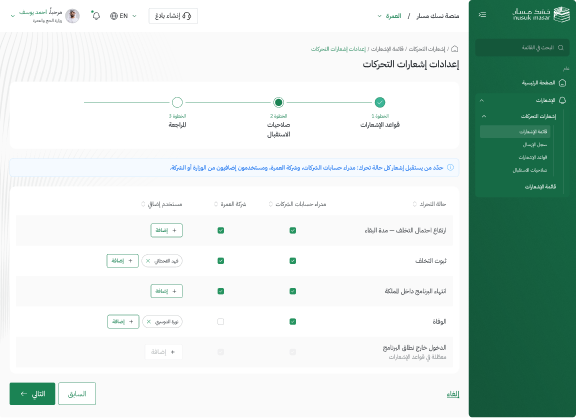
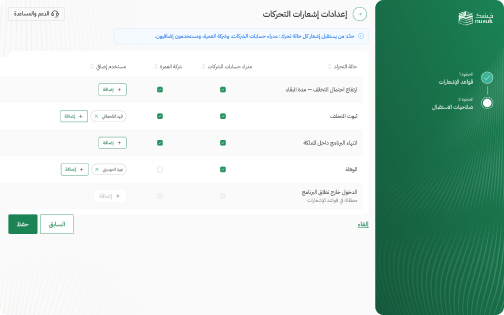
Settings flow on the stepper template: rules table, permissions, side window, save
Claude-Session: https://claude.ai/code/session_01CyctH4WFBszWbBNkvnfQuz

diff --git a/CLAUDE.md b/CLAUDE.md
@@ -138,15 +138,14 @@ All four libraries are published and reachable through `search_design_system`.
   Nav is resized to the frame height and kept under modal overlays. Slot children (2nd/3rd level items) are edited in place.
   The `star` and `drag-drop-vertical` icons on nav items are hidden on every frame (user decision).
 - **Settings stepper flow (user, 2026-10-15):** entry is the button «اعدادات اشعارات التحركات» (`4579:88592`) on the
-  user's new list frame `4579:87714`. Section `4582:9724` «إعدادات إشعارات التحركات — Stepper» (x4800 y2300). The user asked
-  to build the steps on that list page itself (new Nav Bar + top bar + breadcrumbs «… / قائمة الإشعارات / إعدادات إشعارات
-  التحركات», title «إعدادات إشعارات التحركات», title button hidden), with a horizontal DS `stepper` (set `64e10e27…`,
-  variant platform=tablet, language=arabic; 3 steps, labels «الخطوة n» + name; step_item step=done/current/next) in a
-  white card under the title. Frames left → right: 1 قواعد الإشعارات `4585:19772` (rules B cards, no per-card footers;
-  «التالي» + «إلغاء» link) · 2 صلاحيات الاستقبال `4585:20342` (permissions table; «التالي» + «السابق») · 2b add extra
-  user `4585:21817` — the user asked to use the side window from `4572:27643` (Side Panel `4572:27907`, 800 wide, from the
-  left over a 30% overlay) holding the two-list picker; footer «إضافة» + «إلغاء» · 3 المراجعة `4585:20944` (summary
-  cards; «حفظ الإعدادات» + «السابق») · 4 success `4583:12791` (list + snackbar under the button).
+  user's list frame `4579:87714`. Section `4582:9724` «إعدادات إشعارات التحركات — Stepper» (x4800 y2300). Built on the
+  user's stepper template `4572:17557` (green `stepper` panel on the right, `top_bar` version=stepper with headline
+  «إعدادات إشعارات التحركات», infobox, content, «Buttons» row). Two steps only (user): 1 قواعد الإشعارات `4586:12055`
+  = the rules A table `4500:2233` (no paginator, overflows left like other wide tables; «التالي» + «إلغاء» link) ·
+  2 صلاحيات الاستقبال `4586:13144` = the permissions table `4507:14633` (its footer hidden; «حفظ» + «السابق») ·
+  2b `4586:14015` «+ إضافة» opens the side window (Side Panel `4572:27907` from `4572:27643`, 800 wide from the left,
+  30% overlay, two-list picker, «إضافة» + «إلغاء») · 2c `4586:79602` user added (tag «سارة العتيبي» in row 1) ·
+  3 success `4583:12791` (list + snackbar «تم حفظ إعدادات إشعارات التحركات بنجاح»). No review step (user: save directly).
 - **Rule (user):** copy how the existing screens are built (clone their cards, table header, columns, and
   placeholders such as YYYY/MM/DD dates). Don't invent new patterns straight from the design-system library.
 - Screen conventions: 1440 wide, `nav_bar` 268 on the right, `top_bar`, breadcrumbs + title, cards row, table card.
